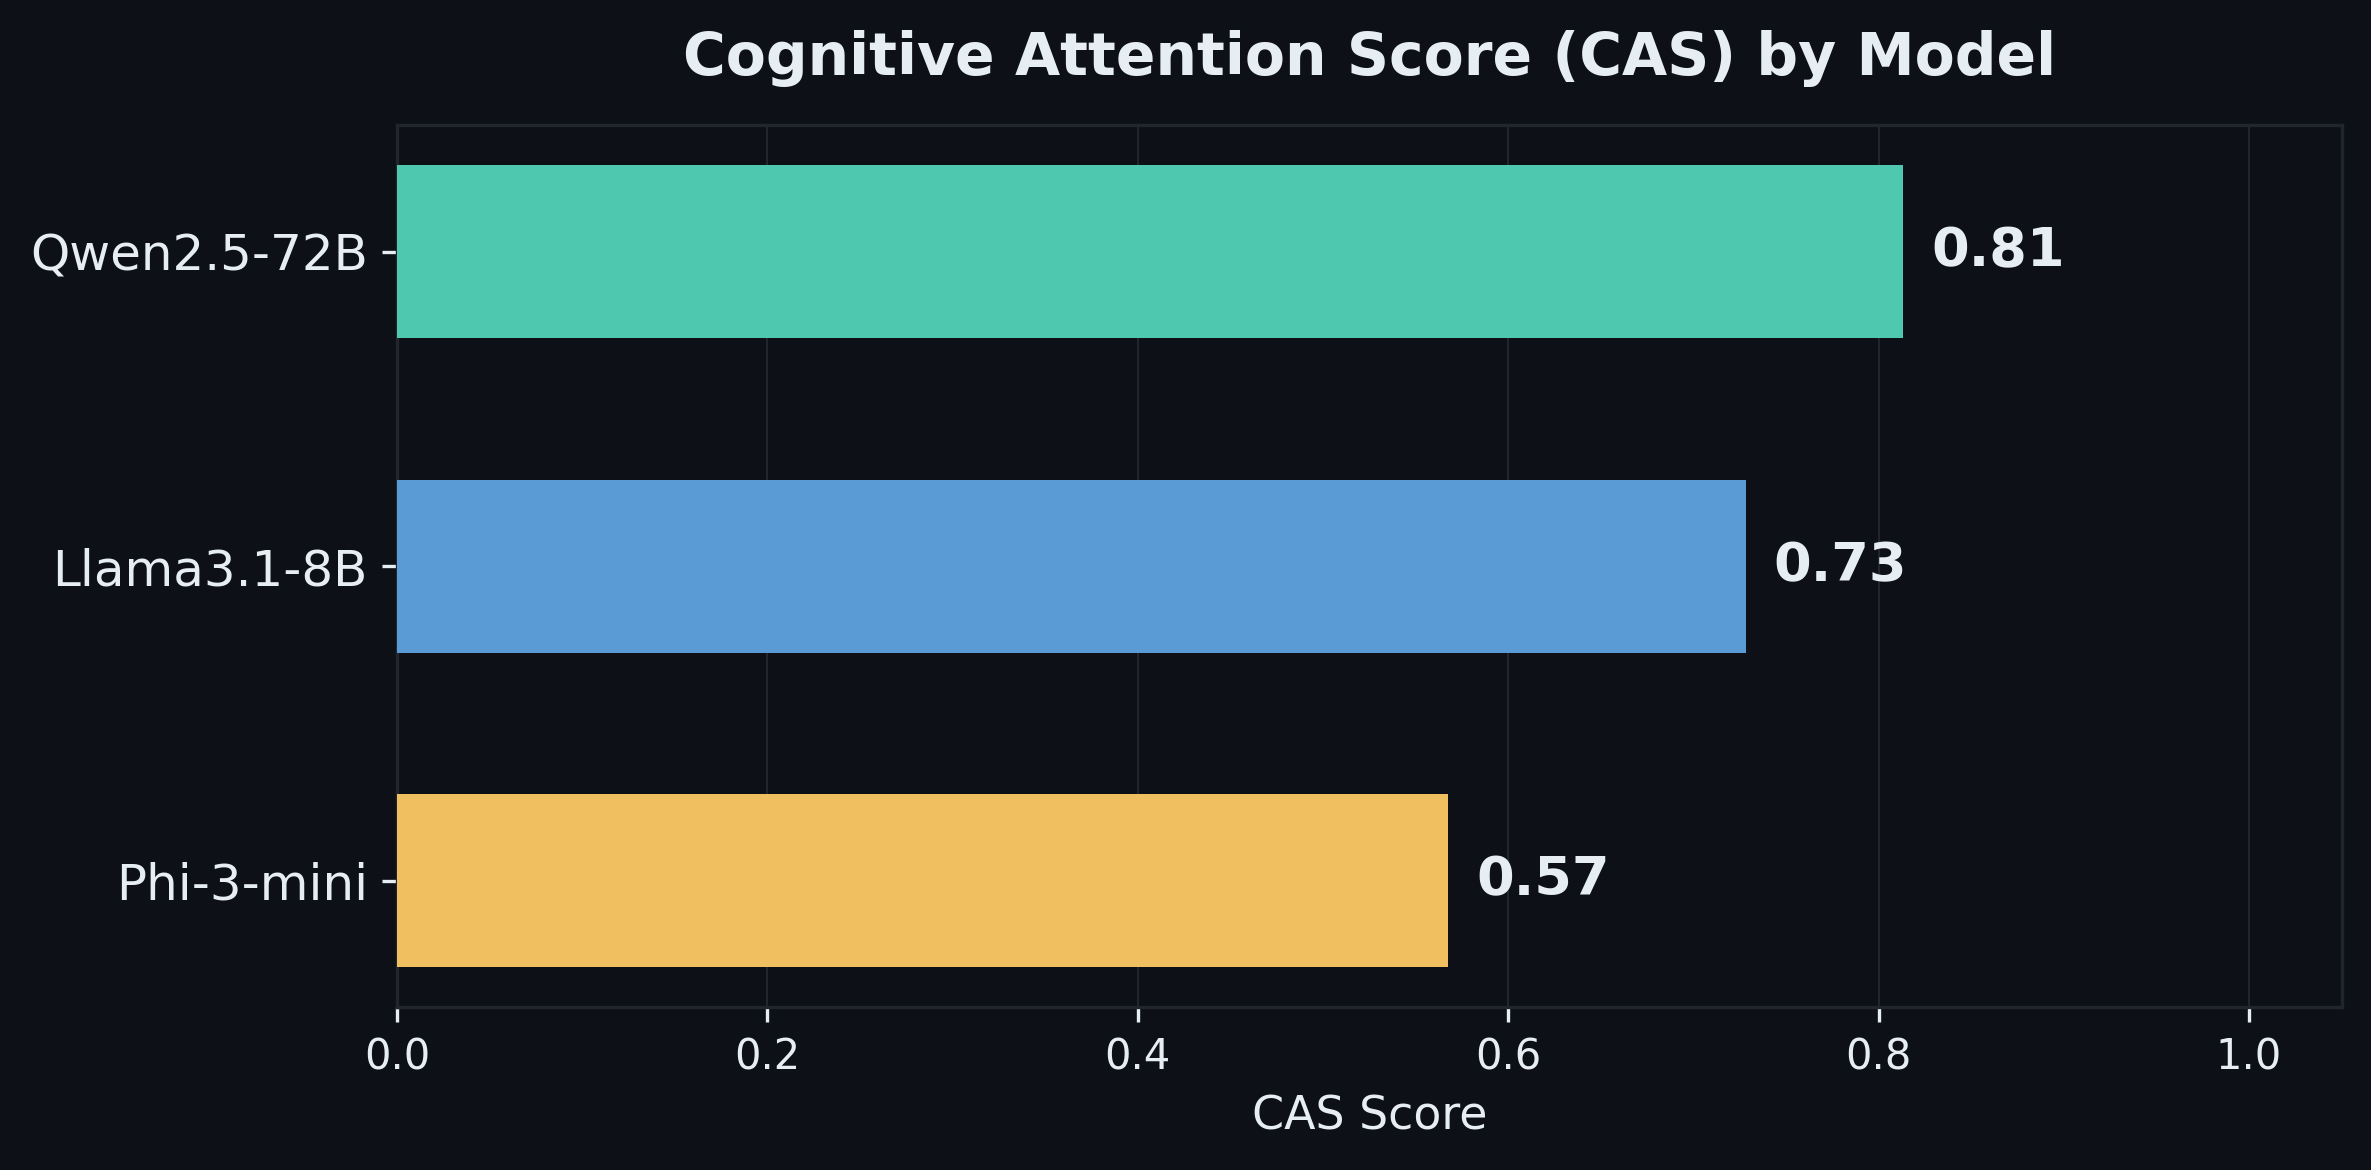
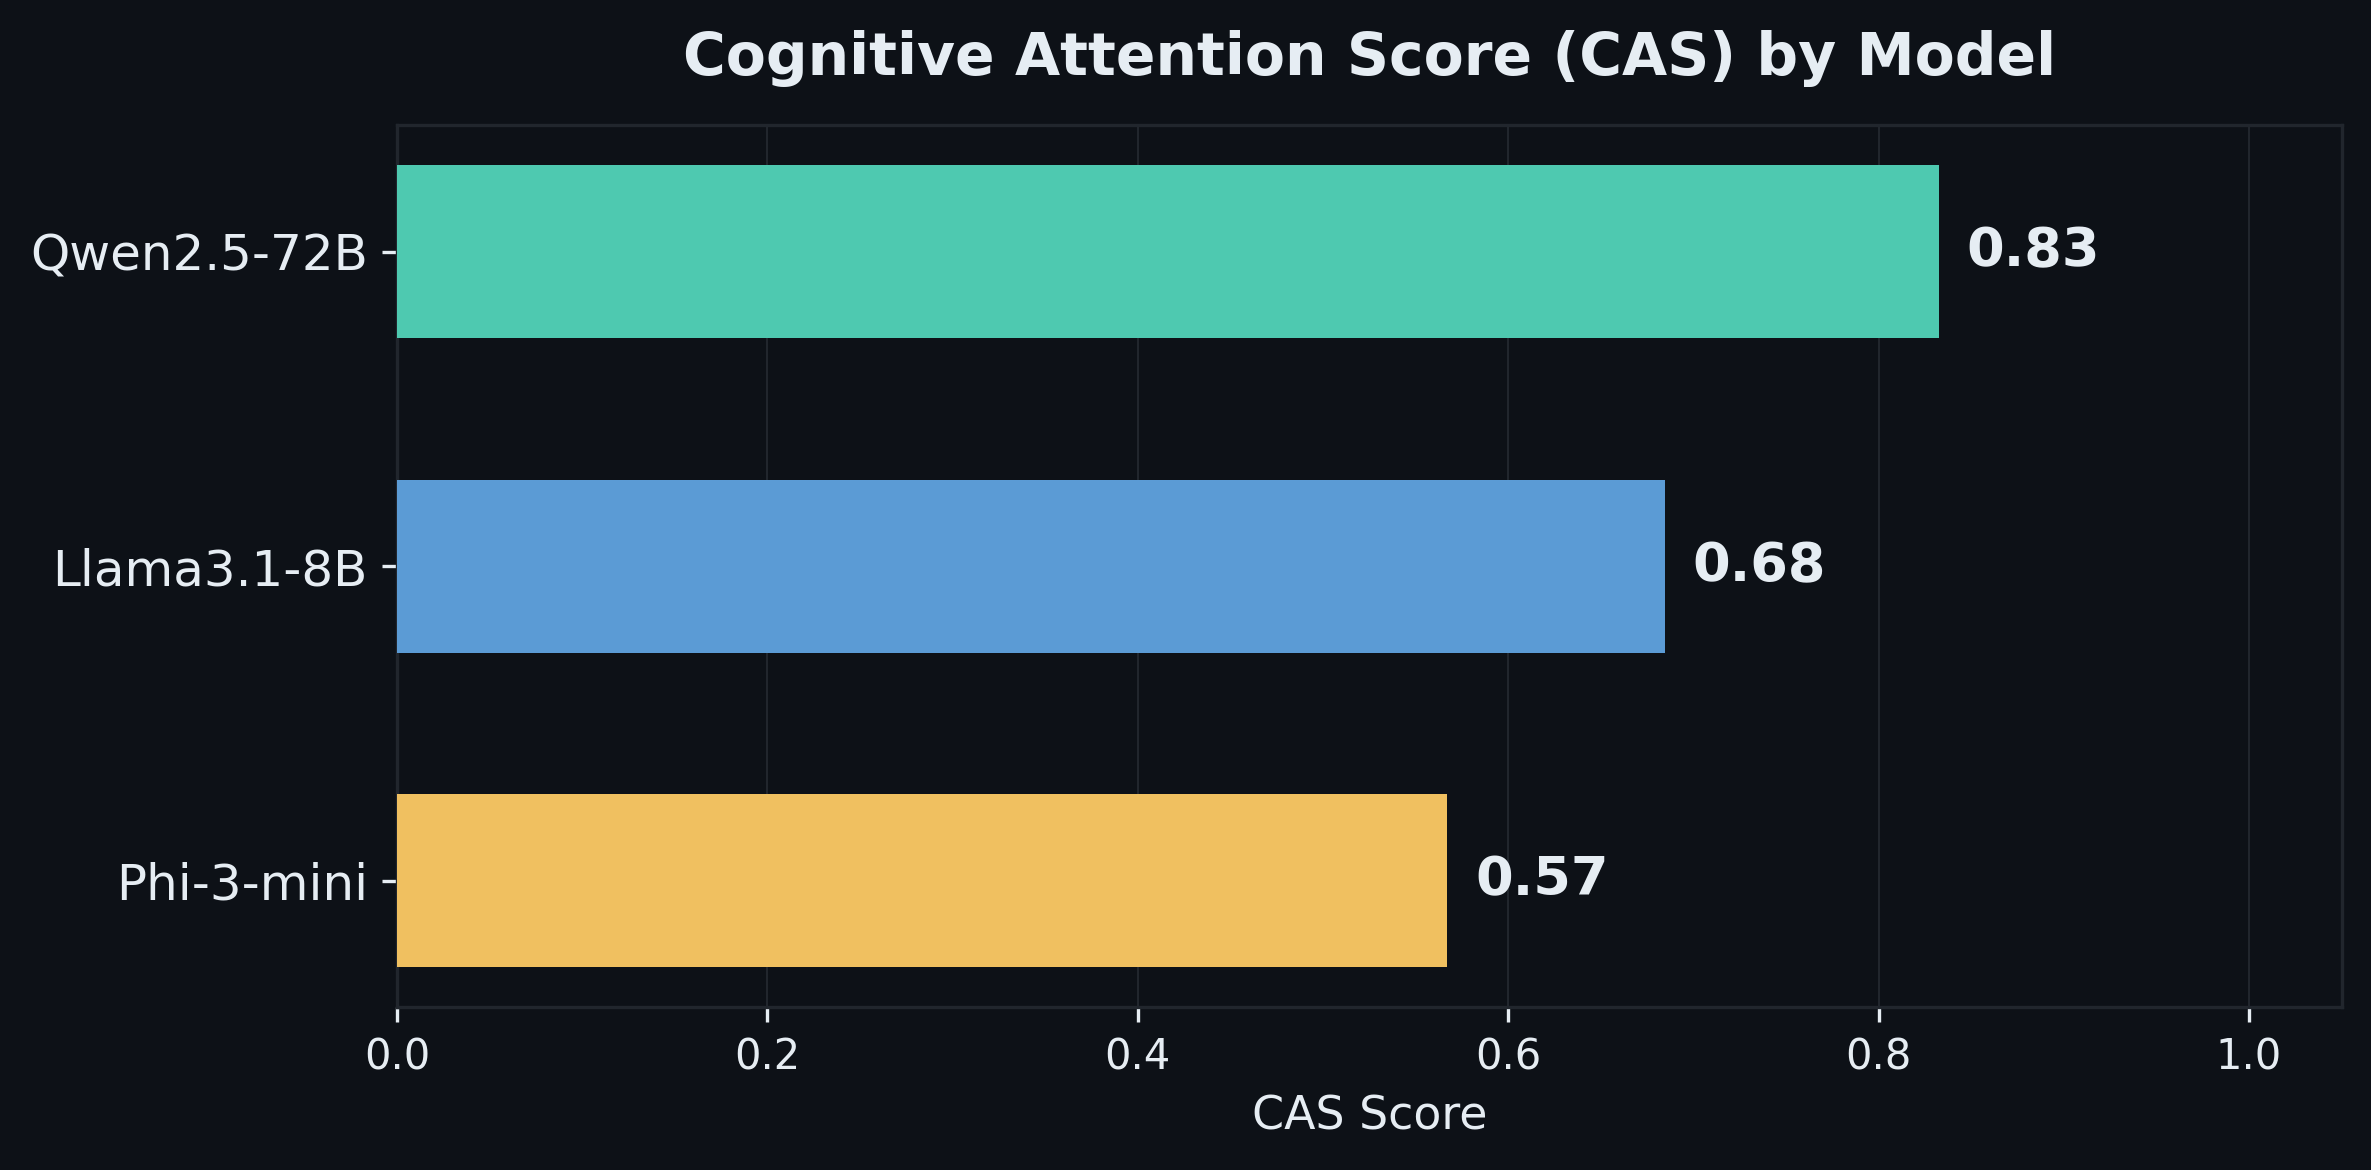
Add 'what you can do with CogAttention' use-cases; fix Quick Start to generate full 860
- README: new 8-row use-case table (Kaggle submit, local vLLM eval, lm-eval-harness, diagnosis, stats, extension, VLMs, reproducibility); expanded Quick Start snippet to cover all 16 generators so total matches advertised 860 (was 350 with 6/16)
- docs/benchmark_description.md: new Kaggle-facing description with 6-bullet 'What to use CogAttention for' section
- docs/cogattention_v2.md: extended 'two concrete uses' to three (added practitioner routing by attention profile); 1485/1500 words
- figures: regenerated cas_scores, difficulty_curves, selectivity_frontier, task_heatmap

Changed region(s): [[0.7803, 0.1231, 0.9051, 0.3077], [0.6866, 0.4, 0.8115, 0.5538], [0.6242, 0.7385, 0.6554, 0.7692]]

diff --git a/docs/benchmark_description.md b/docs/benchmark_description.md
@@ -1,0 +1,65 @@
+# CogAttention: Benchmark Description
+
+CogAttention measures attention in frontier language models as the DeepMind cognitive framework (Burnell et al., 2026, §7.3) defines it: three separable faculties that decompose into five sub-abilities, tested through 16 procedurally generated task types and 860 items. Unlike retrieval-focused long-context tests (NIAH, RULER), CogAttention operationalizes classical attention paradigms from cognitive psychology as behavioral tasks with programmatic ground truth.
+
+## 16 task types across 5 attention sub-abilities (3-tier hierarchy)
+
+### Attention Capacity (§7.3.1)
+- **Thread Tracking** — N agents swap items; report final holdings (Pylyshyn & Storm, 1988)
+- **Proactive Interference** — repeated value updates; report only the final value (Wang & Sun, 2025)
+- **Attentional Blink** — identify two targets in rapid serial presentation (Raymond et al., 1992)
+
+### Selective Attention / Attentional Control (§7.3.2)
+
+**Sustained focus:**
+- **Vigilance Probe** (Mackworth, 1948)
+- **Stream Segregation** (Cherry, 1953)
+- **Context Dilution** (50K+ tokens)
+- **Semantic NIAH** (zero lexical overlap)
+- **Multihop** (chained facts across distributed context)
+
+**Perceptual Inhibition:**
+- **Distractor Filtering** (verified vs. unverified facts)
+- **Semantic Stroop** (Stroop, 1935)
+- **Flanker** (Eriksen & Eriksen, 1974)
+
+**Shifting:**
+- **Rule Shift** (Monsell, 2003)
+- **Inhibition of Return** (Posner & Cohen, 1984)
+
+### Stimulus-Driven Attention (§7.3.3)
+- **Anomaly Detection** — embedded foreign language, code, or factual absurdity must be flagged during a distractor task (Simons & Chabris, 1999)
+
+### Multimodal extensions (VLM)
+- **Visual Stroop** — name ink color of a color word in conflicting ink
+- **Visual Inattentional Blindness** — count shapes while detecting an unexpected stimulus
+
+## Dataset and contamination resistance
+
+All items are procedurally generated from a seed with programmatic ground truth — no static datasets, no memorization shortcuts. Contamination resistance via combinatorial pools, canary strings, seed-based regeneration, zero lexical overlap, and private scoring logic held out of model contexts. Difficulty spans five tiers (Easy → Frontier) by varying tracked-item count, passage length, distractor density, and cue clarity.
+
+## Scoring
+
+Composite Attention Score (CAS) reported in two modes per BetterBench (Reuel et al., 2024) — **Arithmetic CAS** (compensatory) and **Geometric CAS** (non-compensatory, penalizing uneven profiles). Statistical analysis: bootstrapped 95% CIs (10,000 resamples), Cohen's d, and Classical Test Theory point-biserial discrimination (`r_pb`) against total CAS.
+
+## What to use CogAttention for
+
+- **Rank frontier models on attention-specific failure modes** that retrieval-style long-context suites miss (perseveration, distractor intrusion, vigilance decrement, inattentional blindness).
+- **Diagnose where a model breaks** — Geometric CAS + per-ability breakdown exposes which of the five sub-abilities collapse, instead of a single averaged number.
+- **Evaluate open models locally** — seeded procedural generation + vLLM harness with OOM resilience and checkpoint/resume reproduce the 860-item suite on commodity GPUs.
+- **Extend to new cognitive paradigms** — every task is a `generator.py` + `scorer.py` pair with programmatic ground truth; forks inherit the CAS aggregation, CIs, and discrimination analysis for free.
+- **Stress-test VLMs on selective and stimulus-driven attention** — Visual Stroop and Visual Inattentional Blindness currently floor all 7 frontier models (0/7 pass), giving a clean signal for the next generation.
+- **Track progress toward AGI on the Burnell et al. (2026) cognitive framework** — CogAttention is the attention pillar; combine with Executive Functions (Agrawal) and other cognitive suites for a composite profile.
+
+## Results (7 frontier models, April 2026)
+
+21-point CAS spread (DeepSeek-R1 and Claude Opus 4.6 at 0.89; Gemma-3-27B at 0.68). Four discriminating tasks under `r_pb >= 0.3`:
+
+| Task | r_pb | Failure rate |
+|------|------|--------------|
+| Anomaly Detection | 0.94 | 2/7 |
+| Rule Shift | 0.77 | 3/7 |
+| Capacity (Thread Tracking) | 0.75 | 1/7 |
+| Attentional Blink | 0.68 | 4/7 |
+
+Ten remaining text-only tasks at ceiling; two visual tasks at floor (all 7 models fail).

diff --git a/README.md b/README.md
@@ -58,6 +58,19 @@ Evaluated on 140 items per model (2 per difficulty × 14 text tasks × 5 tiers) 
 
 **Geometric CAS** penalizes models that completely fail on any ability — Phi drops from 0.567 (arithmetic) to 0.479 (geometric), exposing hidden weaknesses.
 
+## What You Can Do With CogAttention
+
+| Use Case | How | Entry Point |
+|----------|-----|-------------|
+| **Benchmark a frontier model on Kaggle** | Submit any of 19 notebooks to the Kaggle Community Benchmarks platform and get a score on the public leaderboard | `notebooks/task_*.ipynb` |
+| **Evaluate a local/open model with vLLM** | Run the full 14-task text suite (or a subset via `--tasks`) with OOM-safe checkpointed inference | `python -m src.run_local_eval --model <alias> --full` |
+| **Plug into lm-evaluation-harness** | Each generator yields `TaskInstance` objects; each scorer returns a `ScoreResult` — drop into any external harness | `src/eval_config.py::get_task_registry()` |
+| **Diagnose a model's attention profile** | Geometric CAS + radar chart expose which of the 5 abilities (capacity / sustained / selective / shifting / stimulus-driven) collapse | `src/scorers/composite.py`, `src/visualize.py` |
+| **Compare two models with stats** | Bootstrapped 95% CIs, Cohen's d, rank-biserial, and point-biserial CTT discrimination | `src/analysis/` |
+| **Extend to new paradigms** | All generators are procedural + seeded — fork a `generator.py` + `scorer.py` pair and register it | `src/generators/base.py`, `src/scorers/base.py` |
+| **Test multimodal attention (VLMs)** | PIL-generated Visual Stroop and Inattentional Blindness items with programmatic ground truth | `src/generators/visual_*.py` |
+| **Reproduce our 7-model leaderboard** | All seeds fixed (`seed=2026`); regenerate identical items, rescore, and replot the figures | `python src/visualize.py` |
+
 ## Repository Structure
 
 ```
@@ -172,21 +185,34 @@ pip install -e ".[dev]"
 # Run all 148 tests
 python3 -m pytest tests/ -v
 
-# Generate all 860 benchmark instances (560 text + 300 visual)
+# Generate all 860 benchmark instances (560 text + 300 visual) across 16 task types
 python3 -c "
 from src.generators.capacity import generate_capacity_dataset
+from src.generators.novel_capacity import generate_interference_dataset
+from src.generators.attentional_blink import generate_blink_dataset
 from src.generators.sustained import generate_sustained_dataset
+from src.generators.novel_sustained import generate_stream_dataset
+from src.generators.context_dilution import generate_dilution_dataset
+from src.generators.semantic_niah import generate_sniah_dataset
+from src.generators.multihop_attention import generate_multihop_dataset
 from src.generators.selective import generate_selective_dataset
+from src.generators.novel_selective import generate_stroop_dataset
+from src.generators.flanker import generate_flanker_dataset
 from src.generators.shifting import generate_shifting_dataset
+from src.generators.inhibition_return import generate_ior_dataset
 from src.generators.anomaly import generate_anomaly_dataset
 from src.generators.visual_selective import generate_visual_stroop_dataset
+from src.generators.visual_inattentional import generate_visual_inattentional_dataset
 
 total = sum(len(g(seed=2026)) for g in [
-    generate_capacity_dataset, generate_sustained_dataset,
-    generate_selective_dataset, generate_shifting_dataset,
-    generate_anomaly_dataset, generate_visual_stroop_dataset,
+    generate_capacity_dataset, generate_interference_dataset, generate_blink_dataset,
+    generate_sustained_dataset, generate_stream_dataset, generate_dilution_dataset,
+    generate_sniah_dataset, generate_multihop_dataset,
+    generate_selective_dataset, generate_stroop_dataset, generate_flanker_dataset,
+    generate_shifting_dataset, generate_ior_dataset, generate_anomaly_dataset,
+    generate_visual_stroop_dataset, generate_visual_inattentional_dataset,
 ])
-print(f'Total instances: {total}')
+print(f'Total instances: {total}')  # expect 860
 "
 
 # Generate all 9 figures (from pilot data)

diff --git a/docs/cogattention_v2.md b/docs/cogattention_v2.md
@@ -83,7 +83,7 @@ Our 7-model (12 local) pool supports CTT descriptive analysis but defers IRT to 
 
 Standard long-context benchmarks measure retrieval across length. CogAttention decomposes attention into sub-faculties and surfaces three results a single score hides: (1) models with identical aggregate scores have opposite profiles (Sonnet 4.5 and GPT-OSS-20B both score 0.84 but fail different sub-abilities); (2) failure modes are systematic (perseveration dominates shifting errors, vigilance decrement is monotonic); (3) cross-track comparison shows the framework's sub-faculties coming apart in behavior.
 
-Sub-scores are diagnostic tools. For labs, two concrete uses: (a) regression-test a model family across releases (did shifting degrade from v3 to v4?); (b) evaluate architectural ablations (does a new KV-cache design improve sustained attention without breaking anomaly detection?). For the framework, they give behavioral evidence that its sub-faculty categories come apart in practice.
+Sub-scores are diagnostic tools with three concrete uses. For labs: (a) regression-test a model family across releases (did shifting degrade from v3 to v4?); (b) evaluate architectural ablations (does a new KV-cache design improve sustained attention without breaking anomaly detection?). For practitioners: (c) route deployments by profile — a model strong on sustained attention but weak on shifting suits long-context RAG over multi-step agent workflows. For the framework, they give behavioral evidence that its sub-faculty categories come apart in practice.
 
 **Full benchmark (19 notebooks, 860 items), stimuli, human baseline data, and analysis code:** github.com/Ramesh-Arvind/cogattention-benchmark
 
